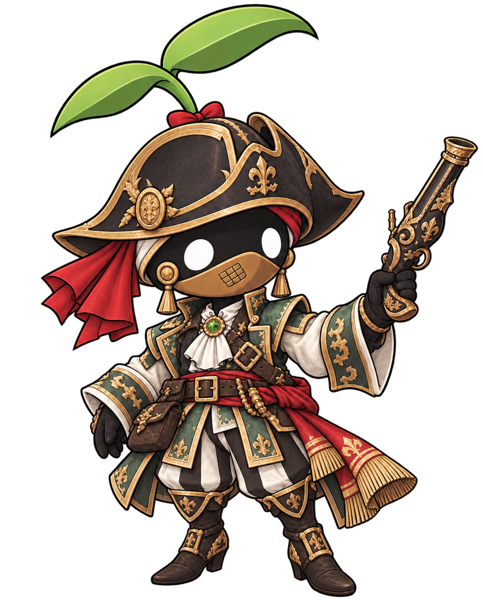
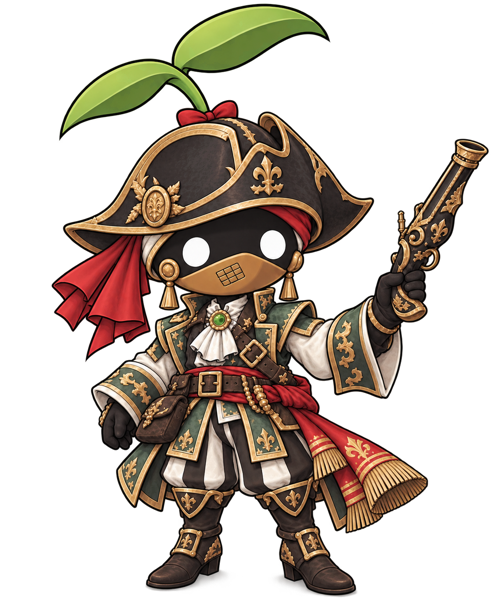
COR art v4

Changed region(s): [[0.0932, 0.0, 0.9938, 1.0]]

diff --git a/jobs.html b/jobs.html
@@ -1,4 +1,4 @@
 <!DOCTYPE html><html lang="en"><head><meta charset="utf-8"><meta name="viewport" content="width=device-width,initial-scale=1"><title>Jobs — EmberXI Wiki</title><link rel="stylesheet" href="style.css?v=1789575366"></head><body>
 <div id="side"><div id="logo"><a href="index.html"><div class="logo-title">EMBER XI<br>WIKI</div><div class="logo-sub">A Family Resource for Vana'diel</div></a></div><div class="portal"><h3>Main</h3><ul><li><a href="index.html">Main Page</a></li><li><a href="new-players.html">New Players</a></li><li><a href="rules.html">Server Rules</a></li><li><a href="xp-guide.html">EXP Guide</a></li><li><a href="jobs.html">Jobs</a></li><li><a href="trusts.html">Trusts</a></li><li><a href="avatars.html">Avatars</a></li><li><a href="eco-warrior.html">Eco-Warrior</a></li><li><a href="missions.html">Missions</a></li><li><a href="nms.html">NMs</a></li><li><a href="sky.html">Sky</a></li><li><a href="sea.html">Sea</a></li><li><a href="hnm.html">HNM</a></li></ul></div><div class="portal"><h3>EmberXI Content</h3><ul><li><a href="limit-break.html">Limit Break</a></li><li><a href="fountain.html">The Fountain</a></li><li><a href="ember-trials.html">Ember Trials</a></li><li><a href="ambuscade.html">Ambuscade</a></li><li><a href="nine-teeth.html">Nine Teeth</a></li><li><a href="domain-invasion.html">Domain Invasion</a></li><li><a href="forge.html">Brandt & Teodor</a></li><li><a href="alexandrite.html">Alexandrite</a></li><li><a href="shami.html">Shami & Orbs</a></li><li><a href="spark-store.html">Spark Store</a></li></ul></div><div class="portal"><h3>Coming Soon</h3><ul><li><span class="soon">CoP</span></li><li><span class="soon">ToAU</span></li><li><span class="soon">Quests</span></li></ul></div><div class="portal"><h3>Tools</h3><ul><li><a href="https://emberxi.wordpress.com">News Site</a></li></ul></div></div>
 <div id="main"><div id="top"><div class="tabs-l"><a class="on" href="#">Jobs</a><a href="#">Discussion</a></div><div class="tabs-r"><a class="on" href="#">Read</a><a href="#">History</a><form class="search" onsubmit="return false"><input placeholder="Search EmberXI Wiki"></form></div></div>
-<div id="content"><h1 class="firstHeading">Jobs</h1><div class="article"><p>Your <b>Main Job</b> is the job that gains experience. A <b>Support Job</b> (sub) is a second job at half your main level; it gives you its abilities, traits and spells up to that level.</p><p>The "Standard Jobs" below are available to every new character. The "Advanced Jobs" are unlocked by completing a quest after level 30.</p><h2>Standard Jobs</h2><p>There are six standard jobs available to all starting players.</p><div class="jobgrid2"><div class="jobrow"><a href="job-war.html" class="jobpic"><img src="img/job-war.png?v=1789588660" alt="Warrior"></a><div><h3 id="war"><a href="job-war.html">Warrior</a></h3><p>Masters of weapons. Warriors stand in front and protect the party. The easiest first job, and the best support job for melee.</p></div></div><div class="jobrow"><a href="job-mnk.html" class="jobpic"><img src="img/job-mnk.png?v=1789578534" alt="Monk"></a><div><h3 id="mnk"><a href="job-mnk.html">Monk</a></h3><p>Fighters who use their fists. Fast punches, high HP and the best Hand-to-Hand skill. Very good solo from level 1.</p></div></div><div class="jobrow"><a href="job-thf.html" class="jobpic"><img src="img/job-thf.png?v=1789578534" alt="Thief"></a><div><h3 id="thf"><a href="job-thf.html">Thief</a></h3><p>Sneak Attack, Trick Attack and Treasure Hunter for more drops. Works best with a Trust tank in front.</p></div></div><div class="jobrow"><a href="job-whm.html" class="jobpic"><img src="img/job-whm.png?v=1789578534" alt="White Mage"></a><div><h3 id="whm"><a href="job-whm.html">White Mage</a></h3><p>The main healer: Cure, Regen, Erase and Raise. With Trusts on EmberXI a White Mage can play solo too.</p></div></div><div class="jobrow"><a href="job-blm.html" class="jobpic"><img src="img/job-blm.png?v=1789578534" alt="Black Mage"></a><div><h3 id="blm"><a href="job-blm.html">Black Mage</a></h3><p>The highest magic damage in the game: elemental nukes, Sleep, Warp and Escape. Magic Burst is +35 on EmberXI.</p></div></div><div class="jobrow"><a href="job-rdm.html" class="jobpic"><img src="img/job-rdm.png?v=1789578534" alt="Red Mage"></a><div><h3 id="rdm"><a href="job-rdm.html">Red Mage</a></h3><p>A fighter-mage: sword plus white and black magic, Refresh, Haste and Dispel. The best solo job of the era.</p></div></div></div><h2>Advanced Jobs</h2><p>By completing certain quests after reaching level 30, the door to many other jobs opens.</p><div class="jobgrid2"><div class="jobrow"><a href="job-pld.html" class="jobpic"><img src="img/job-pld.png?v=1789578534" alt="Paladin"></a><div><h3 id="pld"><a href="job-pld.html">Paladin</a></h3><p>The knight with white magic: the best tank of the era. Cure, Provoke, Sentinel and Invincible.</p></div></div><div class="jobrow"><a href="job-drk.html" class="jobpic"><img src="img/job-drk.png?v=1789578534" alt="Dark Knight"></a><div><h3 id="drk"><a href="job-drk.html">Dark Knight</a></h3><p>High damage with Scythe and Great Sword, plus black magic, Absorb spells and Stun. Uses its own HP for power.</p></div></div><div class="jobrow"><a href="job-bst.html" class="jobpic"><img src="img/job-bst.png?v=1789587196" alt="Beastmaster"></a><div><h3 id="bst"><a href="job-bst.html">Beastmaster</a></h3><p>Charms monsters and fights beside them, or calls Jug Pets. The best solo job even without Trusts.</p></div></div><div class="jobrow"><a href="job-brd.html" class="jobpic"><img src="img/job-brd.png?v=1789578534" alt="Bard"></a><div><h3 id="brd"><a href="job-brd.html">Bard</a></h3><p>Songs that speed up the party, restore MP and put enemies to sleep. The backbone of every era party.</p></div></div><div class="jobrow"><a href="job-rng.html" class="jobpic"><img src="img/job-rng.png?v=1789578534" alt="Ranger"></a><div><h3 id="rng"><a href="job-rng.html">Ranger</a></h3><p>Ranged damage with Bow and Gun, Barrage and Sharpshot. Needs arrows or bullets from the Auction House.</p></div></div><div class="jobrow"><a href="job-sam.html" class="jobpic"><img src="img/job-sam.png?v=1789578534" alt="Samurai"></a><div><h3 id="sam"><a href="job-sam.html">Samurai</a></h3><p>Master of Weapon Skills: fast TP with Meditate and Hasso, and Third Eye to dodge. The king of skillchains.</p></div></div><div class="jobrow"><a href="job-nin.html" class="jobpic"><img src="img/job-nin.png?v=1789579722" alt="Ninja"></a><div><h3 id="nin"><a href="job-nin.html">Ninja</a></h3><p>Utsusemi shadows absorb hits; Ninjutsu gives elemental damage and debuffs. The best evasion tank of the era.</p></div></div><div class="jobrow"><a href="job-drg.html" class="jobpic"><img src="img/job-drg.png?v=1789578534" alt="Dragoon"></a><div><h3 id="drg"><a href="job-drg.html">Dragoon</a></h3><p>Lance and Wyvern. Jump, High Jump and Super Jump for damage and enmity control. The Wyvern heals and fights with you.</p></div></div><div class="jobrow"><a href="job-smn.html" class="jobpic"><img src="img/job-smn.png?v=1789589343" alt="Summoner"></a><div><h3 id="smn"><a href="job-smn.html">Summoner</a></h3><p>Makes pacts with Avatars: Carbuncle, then the six, then Fenrir. The avatar fights for you with Blood Pacts. Support, damage and healing.</p></div></div><div class="jobrow"><a href="job-blu.html" class="jobpic"><img src="img/job-blu.png?v=1789582174" alt="Blue Mage"></a><div><h3 id="blu"><a href="job-blu.html">Blue Mage</a></h3><p>Learns monster spells (Blue Magic) by killing monsters after they use the move. Sword plus a flexible spell set.</p></div></div><div class="jobrow"><a href="job-cor.html" class="jobpic"><img src="img/job-cor.png?v=1789588885" alt="Corsair"></a><div><h3 id="cor"><a href="job-cor.html">Corsair</a></h3><p>A pirate with a gun and Phantom Rolls: luck-based buffs for the party and Hexagun damage.</p></div></div><div class="jobrow"><a href="job-pup.html" class="jobpic"><img src="img/job-pup.png?v=1789581899" alt="Puppetmaster"></a><div><h3 id="pup"><a href="job-pup.html">Puppetmaster</a></h3><p>Controls an Automaton that can be a tank, healer or mage depending on its Attachments.</p></div></div><div class="jobrow"><a href="job-dnc.html" class="jobpic"><img src="img/job-dnc.png?v=1789586774" alt="Dancer"></a><div><h3 id="dnc"><a href="job-dnc.html">Dancer</a></h3><p>Fights with daggers and turns TP into cures, buffs and debuffs with Waltzes, Sambas and Steps. Heals itself, so it is very good solo.</p></div></div><div class="jobrow"><a href="job-sch.html" class="jobpic"><img src="img/job-sch.png?v=1789578534" alt="Scholar"></a><div><h3 id="sch"><a href="job-sch.html">Scholar</a></h3><p>A flexible mage with two stances: Light Arts (white magic) and Dark Arts (black magic), plus Stratagems for faster or cheaper spells.</p></div></div></div><h2>Jobs of Vana'diel by Era</h2><table class="wikitable" dir="ltr"><tr><th>Expansion</th><th></th><th>Jobs</th></tr><tr><td dir="auto">Final Fantasy XI (2002–2004)</td><td dir="auto">Standard Jobs</td><td dir="auto"><a href="job-war.html">Warrior</a> · <a href="job-mnk.html">Monk</a> · <a href="job-thf.html">Thief</a> · <a href="job-whm.html">White Mage</a> · <a href="job-blm.html">Black Mage</a> · <a href="job-rdm.html">Red Mage</a></td></tr><tr><td dir="auto"></td><td dir="auto">Advanced Jobs</td><td dir="auto"><a href="job-pld.html">Paladin</a> · <a href="job-drk.html">Dark Knight</a> · <a href="job-bst.html">Beastmaster</a> · <a href="job-brd.html">Bard</a> · <a href="job-rng.html">Ranger</a></td></tr><tr><td dir="auto">Rise of the Zilart (2003–2004)</td><td dir="auto"></td><td dir="auto"><a href="job-smn.html">Summoner</a> · <a href="job-sam.html">Samurai</a> · <a href="job-nin.html">Ninja</a> · <a href="job-drg.html">Dragoon</a></td></tr><tr><td dir="auto">Chains of Promathia (2004)</td><td dir="auto"></td><td dir="auto">None</td></tr><tr><td dir="auto">Treasures of Aht Urhgan (2006)</td><td dir="auto"></td><td dir="auto"><a href="job-blu.html">Blue Mage</a> · <a href="job-cor.html">Corsair</a> · <a href="job-pup.html">Puppetmaster</a></td></tr><tr><td dir="auto">Wings of the Goddess (2007)</td><td dir="auto"></td><td dir="auto"><a href="job-dnc.html">Dancer</a> · <a href="job-sch.html">Scholar</a></td></tr></table></div><div id="foot">Last edited: 8 September 2026 · EmberXI Wiki</div></div></div></body></html>
+<div id="content"><h1 class="firstHeading">Jobs</h1><div class="article"><p>Your <b>Main Job</b> is the job that gains experience. A <b>Support Job</b> (sub) is a second job at half your main level; it gives you its abilities, traits and spells up to that level.</p><p>The "Standard Jobs" below are available to every new character. The "Advanced Jobs" are unlocked by completing a quest after level 30.</p><h2>Standard Jobs</h2><p>There are six standard jobs available to all starting players.</p><div class="jobgrid2"><div class="jobrow"><a href="job-war.html" class="jobpic"><img src="img/job-war.png?v=1789588660" alt="Warrior"></a><div><h3 id="war"><a href="job-war.html">Warrior</a></h3><p>Masters of weapons. Warriors stand in front and protect the party. The easiest first job, and the best support job for melee.</p></div></div><div class="jobrow"><a href="job-mnk.html" class="jobpic"><img src="img/job-mnk.png?v=1789578534" alt="Monk"></a><div><h3 id="mnk"><a href="job-mnk.html">Monk</a></h3><p>Fighters who use their fists. Fast punches, high HP and the best Hand-to-Hand skill. Very good solo from level 1.</p></div></div><div class="jobrow"><a href="job-thf.html" class="jobpic"><img src="img/job-thf.png?v=1789578534" alt="Thief"></a><div><h3 id="thf"><a href="job-thf.html">Thief</a></h3><p>Sneak Attack, Trick Attack and Treasure Hunter for more drops. Works best with a Trust tank in front.</p></div></div><div class="jobrow"><a href="job-whm.html" class="jobpic"><img src="img/job-whm.png?v=1789578534" alt="White Mage"></a><div><h3 id="whm"><a href="job-whm.html">White Mage</a></h3><p>The main healer: Cure, Regen, Erase and Raise. With Trusts on EmberXI a White Mage can play solo too.</p></div></div><div class="jobrow"><a href="job-blm.html" class="jobpic"><img src="img/job-blm.png?v=1789578534" alt="Black Mage"></a><div><h3 id="blm"><a href="job-blm.html">Black Mage</a></h3><p>The highest magic damage in the game: elemental nukes, Sleep, Warp and Escape. Magic Burst is +35 on EmberXI.</p></div></div><div class="jobrow"><a href="job-rdm.html" class="jobpic"><img src="img/job-rdm.png?v=1789578534" alt="Red Mage"></a><div><h3 id="rdm"><a href="job-rdm.html">Red Mage</a></h3><p>A fighter-mage: sword plus white and black magic, Refresh, Haste and Dispel. The best solo job of the era.</p></div></div></div><h2>Advanced Jobs</h2><p>By completing certain quests after reaching level 30, the door to many other jobs opens.</p><div class="jobgrid2"><div class="jobrow"><a href="job-pld.html" class="jobpic"><img src="img/job-pld.png?v=1789578534" alt="Paladin"></a><div><h3 id="pld"><a href="job-pld.html">Paladin</a></h3><p>The knight with white magic: the best tank of the era. Cure, Provoke, Sentinel and Invincible.</p></div></div><div class="jobrow"><a href="job-drk.html" class="jobpic"><img src="img/job-drk.png?v=1789578534" alt="Dark Knight"></a><div><h3 id="drk"><a href="job-drk.html">Dark Knight</a></h3><p>High damage with Scythe and Great Sword, plus black magic, Absorb spells and Stun. Uses its own HP for power.</p></div></div><div class="jobrow"><a href="job-bst.html" class="jobpic"><img src="img/job-bst.png?v=1789587196" alt="Beastmaster"></a><div><h3 id="bst"><a href="job-bst.html">Beastmaster</a></h3><p>Charms monsters and fights beside them, or calls Jug Pets. The best solo job even without Trusts.</p></div></div><div class="jobrow"><a href="job-brd.html" class="jobpic"><img src="img/job-brd.png?v=1789578534" alt="Bard"></a><div><h3 id="brd"><a href="job-brd.html">Bard</a></h3><p>Songs that speed up the party, restore MP and put enemies to sleep. The backbone of every era party.</p></div></div><div class="jobrow"><a href="job-rng.html" class="jobpic"><img src="img/job-rng.png?v=1789578534" alt="Ranger"></a><div><h3 id="rng"><a href="job-rng.html">Ranger</a></h3><p>Ranged damage with Bow and Gun, Barrage and Sharpshot. Needs arrows or bullets from the Auction House.</p></div></div><div class="jobrow"><a href="job-sam.html" class="jobpic"><img src="img/job-sam.png?v=1789578534" alt="Samurai"></a><div><h3 id="sam"><a href="job-sam.html">Samurai</a></h3><p>Master of Weapon Skills: fast TP with Meditate and Hasso, and Third Eye to dodge. The king of skillchains.</p></div></div><div class="jobrow"><a href="job-nin.html" class="jobpic"><img src="img/job-nin.png?v=1789579722" alt="Ninja"></a><div><h3 id="nin"><a href="job-nin.html">Ninja</a></h3><p>Utsusemi shadows absorb hits; Ninjutsu gives elemental damage and debuffs. The best evasion tank of the era.</p></div></div><div class="jobrow"><a href="job-drg.html" class="jobpic"><img src="img/job-drg.png?v=1789578534" alt="Dragoon"></a><div><h3 id="drg"><a href="job-drg.html">Dragoon</a></h3><p>Lance and Wyvern. Jump, High Jump and Super Jump for damage and enmity control. The Wyvern heals and fights with you.</p></div></div><div class="jobrow"><a href="job-smn.html" class="jobpic"><img src="img/job-smn.png?v=1789589343" alt="Summoner"></a><div><h3 id="smn"><a href="job-smn.html">Summoner</a></h3><p>Makes pacts with Avatars: Carbuncle, then the six, then Fenrir. The avatar fights for you with Blood Pacts. Support, damage and healing.</p></div></div><div class="jobrow"><a href="job-blu.html" class="jobpic"><img src="img/job-blu.png?v=1789582174" alt="Blue Mage"></a><div><h3 id="blu"><a href="job-blu.html">Blue Mage</a></h3><p>Learns monster spells (Blue Magic) by killing monsters after they use the move. Sword plus a flexible spell set.</p></div></div><div class="jobrow"><a href="job-cor.html" class="jobpic"><img src="img/job-cor.png?v=1789589530" alt="Corsair"></a><div><h3 id="cor"><a href="job-cor.html">Corsair</a></h3><p>A pirate with a gun and Phantom Rolls: luck-based buffs for the party and Hexagun damage.</p></div></div><div class="jobrow"><a href="job-pup.html" class="jobpic"><img src="img/job-pup.png?v=1789581899" alt="Puppetmaster"></a><div><h3 id="pup"><a href="job-pup.html">Puppetmaster</a></h3><p>Controls an Automaton that can be a tank, healer or mage depending on its Attachments.</p></div></div><div class="jobrow"><a href="job-dnc.html" class="jobpic"><img src="img/job-dnc.png?v=1789586774" alt="Dancer"></a><div><h3 id="dnc"><a href="job-dnc.html">Dancer</a></h3><p>Fights with daggers and turns TP into cures, buffs and debuffs with Waltzes, Sambas and Steps. Heals itself, so it is very good solo.</p></div></div><div class="jobrow"><a href="job-sch.html" class="jobpic"><img src="img/job-sch.png?v=1789578534" alt="Scholar"></a><div><h3 id="sch"><a href="job-sch.html">Scholar</a></h3><p>A flexible mage with two stances: Light Arts (white magic) and Dark Arts (black magic), plus Stratagems for faster or cheaper spells.</p></div></div></div><h2>Jobs of Vana'diel by Era</h2><table class="wikitable" dir="ltr"><tr><th>Expansion</th><th></th><th>Jobs</th></tr><tr><td dir="auto">Final Fantasy XI (2002–2004)</td><td dir="auto">Standard Jobs</td><td dir="auto"><a href="job-war.html">Warrior</a> · <a href="job-mnk.html">Monk</a> · <a href="job-thf.html">Thief</a> · <a href="job-whm.html">White Mage</a> · <a href="job-blm.html">Black Mage</a> · <a href="job-rdm.html">Red Mage</a></td></tr><tr><td dir="auto"></td><td dir="auto">Advanced Jobs</td><td dir="auto"><a href="job-pld.html">Paladin</a> · <a href="job-drk.html">Dark Knight</a> · <a href="job-bst.html">Beastmaster</a> · <a href="job-brd.html">Bard</a> · <a href="job-rng.html">Ranger</a></td></tr><tr><td dir="auto">Rise of the Zilart (2003–2004)</td><td dir="auto"></td><td dir="auto"><a href="job-smn.html">Summoner</a> · <a href="job-sam.html">Samurai</a> · <a href="job-nin.html">Ninja</a> · <a href="job-drg.html">Dragoon</a></td></tr><tr><td dir="auto">Chains of Promathia (2004)</td><td dir="auto"></td><td dir="auto">None</td></tr><tr><td dir="auto">Treasures of Aht Urhgan (2006)</td><td dir="auto"></td><td dir="auto"><a href="job-blu.html">Blue Mage</a> · <a href="job-cor.html">Corsair</a> · <a href="job-pup.html">Puppetmaster</a></td></tr><tr><td dir="auto">Wings of the Goddess (2007)</td><td dir="auto"></td><td dir="auto"><a href="job-dnc.html">Dancer</a> · <a href="job-sch.html">Scholar</a></td></tr></table></div><div id="foot">Last edited: 8 September 2026 · EmberXI Wiki</div></div></div></body></html>

diff --git a/job-cor.html b/job-cor.html
@@ -1,4 +1,4 @@
 <!DOCTYPE html><html lang="en"><head><meta charset="utf-8"><meta name="viewport" content="width=device-width,initial-scale=1"><title>Corsair — EmberXI Wiki</title><link rel="stylesheet" href="style.css?v=1789575366"></head><body>
 <div id="side"><div id="logo"><a href="index.html"><div class="logo-title">EMBER XI<br>WIKI</div><div class="logo-sub">A Family Resource for Vana'diel</div></a></div><div class="portal"><h3>Main</h3><ul><li><a href="index.html">Main Page</a></li><li><a href="new-players.html">New Players</a></li><li><a href="rules.html">Server Rules</a></li><li><a href="xp-guide.html">EXP Guide</a></li><li><a href="jobs.html">Jobs</a></li><li><a href="trusts.html">Trusts</a></li><li><a href="avatars.html">Avatars</a></li><li><a href="eco-warrior.html">Eco-Warrior</a></li><li><a href="missions.html">Missions</a></li><li><a href="nms.html">NMs</a></li><li><a href="sky.html">Sky</a></li><li><a href="sea.html">Sea</a></li><li><a href="hnm.html">HNM</a></li></ul></div><div class="portal"><h3>EmberXI Content</h3><ul><li><a href="limit-break.html">Limit Break</a></li><li><a href="fountain.html">The Fountain</a></li><li><a href="ember-trials.html">Ember Trials</a></li><li><a href="ambuscade.html">Ambuscade</a></li><li><a href="nine-teeth.html">Nine Teeth</a></li><li><a href="domain-invasion.html">Domain Invasion</a></li><li><a href="forge.html">Brandt & Teodor</a></li><li><a href="alexandrite.html">Alexandrite</a></li><li><a href="shami.html">Shami & Orbs</a></li><li><a href="spark-store.html">Spark Store</a></li></ul></div><div class="portal"><h3>Coming Soon</h3><ul><li><span class="soon">CoP</span></li><li><span class="soon">ToAU</span></li><li><span class="soon">Quests</span></li></ul></div><div class="portal"><h3>Tools</h3><ul><li><a href="https://emberxi.wordpress.com">News Site</a></li></ul></div></div>
 <div id="main"><div id="top"><div class="tabs-l"><a class="on" href="#">Corsair</a><a href="#">Discussion</a></div><div class="tabs-r"><a class="on" href="#">Read</a><a href="#">History</a><form class="search" onsubmit="return false"><input placeholder="Search EmberXI Wiki"></form></div></div>
-<div id="content"><h1 class="firstHeading">Corsair</h1><div class="article"><div class="lead"><table class="infobox"><tr><th colspan="2" class="ib-title">Corsair</th></tr><tr><td class="ib-label">Abbreviation</td><td>COR</td></tr><tr><td class="ib-label">Expansion</td><td>Treasures of Aht Urhgan</td></tr><tr><td class="ib-label">How to Unlock</td><td>Luck of the Draw</td></tr><tr><td class="ib-label">Page Contents</td><td><a href="#ab">Abilities</a> · <a href="#tr">Traits</a> · <a href="#sk">Skills</a></td></tr></table><div><img class="jobart" src="img/job-cor.png?v=1789588885" alt="Corsair"><p>A pirate with a gun and Phantom Rolls: luck-based buffs for the party and Hexagun damage.</p></div></div><h2 id="ab">Job Abilities</h2><table class="wikitable" dir="ltr"><tr><th>Level</th><th>Name</th></tr><tr><td dir="auto">1</td><td dir="auto">Wild Card</td></tr><tr><td dir="auto">5</td><td dir="auto">Corsairs Roll</td></tr><tr><td dir="auto">5</td><td dir="auto">Double-Up</td></tr><tr><td dir="auto">5</td><td dir="auto">Phantom Roll</td></tr><tr><td dir="auto">8</td><td dir="auto">Ninja Roll</td></tr><tr><td dir="auto">11</td><td dir="auto">Hunters Roll</td></tr><tr><td dir="auto">14</td><td dir="auto">Chaos Roll</td></tr><tr><td dir="auto">17</td><td dir="auto">Maguss Roll</td></tr><tr><td dir="auto">20</td><td dir="auto">Healers Roll</td></tr><tr><td dir="auto">23</td><td dir="auto">Drachen Roll</td></tr><tr><td dir="auto">26</td><td dir="auto">Choral Roll</td></tr><tr><td dir="auto">31</td><td dir="auto">Monks Roll</td></tr><tr><td dir="auto">34</td><td dir="auto">Beast Roll</td></tr><tr><td dir="auto">34</td><td dir="auto">Samurai Roll</td></tr><tr><td dir="auto">40</td><td dir="auto">Dark Shot</td></tr><tr><td dir="auto">40</td><td dir="auto">Earth Shot</td></tr><tr><td dir="auto">40</td><td dir="auto">Evokers Roll</td></tr><tr><td dir="auto">40</td><td dir="auto">Fire Shot</td></tr><tr><td dir="auto">40</td><td dir="auto">Ice Shot</td></tr><tr><td dir="auto">40</td><td dir="auto">Light Shot</td></tr><tr><td dir="auto">40</td><td dir="auto">Quick Draw</td></tr><tr><td dir="auto">40</td><td dir="auto">Thunder Shot</td></tr><tr><td dir="auto">40</td><td dir="auto">Water Shot</td></tr><tr><td dir="auto">40</td><td dir="auto">Wind Shot</td></tr><tr><td dir="auto">43</td><td dir="auto">Rogues Roll</td></tr><tr><td dir="auto">46</td><td dir="auto">Warlocks Roll</td></tr><tr><td dir="auto">49</td><td dir="auto">Fighters Roll</td></tr><tr><td dir="auto">50</td><td dir="auto">Random Deal</td></tr><tr><td dir="auto">52</td><td dir="auto">Puppet Roll</td></tr><tr><td dir="auto">55</td><td dir="auto">Gallants Roll</td></tr><tr><td dir="auto">58</td><td dir="auto">Wizards Roll</td></tr><tr><td dir="auto">61</td><td dir="auto">Dancers Roll</td></tr><tr><td dir="auto">64</td><td dir="auto">Scholars Roll</td></tr><tr><td dir="auto">67</td><td dir="auto">Naturalists Roll</td></tr><tr><td dir="auto">70</td><td dir="auto">Runeists Roll</td></tr><tr><td dir="auto">75</td><td dir="auto">Fold</td></tr><tr><td dir="auto">75</td><td dir="auto">Snake Eye</td></tr></table><h2 id="tr">Job Traits</h2><table class="wikitable" dir="ltr"><tr><th>Level</th><th>Trait</th></tr><tr><td dir="auto">5</td><td dir="auto">Resist Paralyze</td></tr><tr><td dir="auto">15</td><td dir="auto">Rapid Shot</td></tr><tr><td dir="auto">25</td><td dir="auto">Resist Paralyze II</td></tr><tr><td dir="auto">30</td><td dir="auto">Resist Amnesia</td></tr><tr><td dir="auto">35</td><td dir="auto">Recycle</td></tr><tr><td dir="auto">45</td><td dir="auto">Resist Paralyze III</td></tr><tr><td dir="auto">50</td><td dir="auto">Resist Amnesia II</td></tr><tr><td dir="auto">65</td><td dir="auto">Recycle II</td></tr><tr><td dir="auto">65</td><td dir="auto">Resist Paralyze IV</td></tr><tr><td dir="auto">70</td><td dir="auto">Resist Amnesia III</td></tr><tr><td dir="auto">75</td><td dir="auto">Loaded Deck</td></tr><tr><td dir="auto">75</td><td dir="auto">Winning Streak</td></tr></table><h2 id="sk">Skills</h2><table class="wikitable" dir="ltr"><tr><th>Skill</th><th>Rank</th><th>Lv 37</th><th>Lv 75</th></tr><tr><td dir="auto">Dagger</td><td dir="auto">B+</td><td dir="auto">109</td><td dir="auto">256</td></tr><tr><td dir="auto">Sword</td><td dir="auto">B-</td><td dir="auto">109</td><td dir="auto">240</td></tr><tr><td dir="auto">Marksmanship</td><td dir="auto">B</td><td dir="auto">109</td><td dir="auto">250</td></tr><tr><td dir="auto">Throwing</td><td dir="auto">C+</td><td dir="auto">105</td><td dir="auto">230</td></tr><tr><td dir="auto">Evasion</td><td dir="auto">D</td><td dir="auto">101</td><td dir="auto">210</td></tr><tr><td dir="auto">parrying</td><td dir="auto">A-</td><td dir="auto">114</td><td dir="auto">269</td></tr></table><h2>Artifact Armor</h2><p class="soon">Coming soon.</p></div><div id="foot">Last edited: 8 September 2026 · EmberXI Wiki</div></div></div></body></html>
+<div id="content"><h1 class="firstHeading">Corsair</h1><div class="article"><div class="lead"><table class="infobox"><tr><th colspan="2" class="ib-title">Corsair</th></tr><tr><td class="ib-label">Abbreviation</td><td>COR</td></tr><tr><td class="ib-label">Expansion</td><td>Treasures of Aht Urhgan</td></tr><tr><td class="ib-label">How to Unlock</td><td>Luck of the Draw</td></tr><tr><td class="ib-label">Page Contents</td><td><a href="#ab">Abilities</a> · <a href="#tr">Traits</a> · <a href="#sk">Skills</a></td></tr></table><div><img class="jobart" src="img/job-cor.png?v=1789589530" alt="Corsair"><p>A pirate with a gun and Phantom Rolls: luck-based buffs for the party and Hexagun damage.</p></div></div><h2 id="ab">Job Abilities</h2><table class="wikitable" dir="ltr"><tr><th>Level</th><th>Name</th></tr><tr><td dir="auto">1</td><td dir="auto">Wild Card</td></tr><tr><td dir="auto">5</td><td dir="auto">Corsairs Roll</td></tr><tr><td dir="auto">5</td><td dir="auto">Double-Up</td></tr><tr><td dir="auto">5</td><td dir="auto">Phantom Roll</td></tr><tr><td dir="auto">8</td><td dir="auto">Ninja Roll</td></tr><tr><td dir="auto">11</td><td dir="auto">Hunters Roll</td></tr><tr><td dir="auto">14</td><td dir="auto">Chaos Roll</td></tr><tr><td dir="auto">17</td><td dir="auto">Maguss Roll</td></tr><tr><td dir="auto">20</td><td dir="auto">Healers Roll</td></tr><tr><td dir="auto">23</td><td dir="auto">Drachen Roll</td></tr><tr><td dir="auto">26</td><td dir="auto">Choral Roll</td></tr><tr><td dir="auto">31</td><td dir="auto">Monks Roll</td></tr><tr><td dir="auto">34</td><td dir="auto">Beast Roll</td></tr><tr><td dir="auto">34</td><td dir="auto">Samurai Roll</td></tr><tr><td dir="auto">40</td><td dir="auto">Dark Shot</td></tr><tr><td dir="auto">40</td><td dir="auto">Earth Shot</td></tr><tr><td dir="auto">40</td><td dir="auto">Evokers Roll</td></tr><tr><td dir="auto">40</td><td dir="auto">Fire Shot</td></tr><tr><td dir="auto">40</td><td dir="auto">Ice Shot</td></tr><tr><td dir="auto">40</td><td dir="auto">Light Shot</td></tr><tr><td dir="auto">40</td><td dir="auto">Quick Draw</td></tr><tr><td dir="auto">40</td><td dir="auto">Thunder Shot</td></tr><tr><td dir="auto">40</td><td dir="auto">Water Shot</td></tr><tr><td dir="auto">40</td><td dir="auto">Wind Shot</td></tr><tr><td dir="auto">43</td><td dir="auto">Rogues Roll</td></tr><tr><td dir="auto">46</td><td dir="auto">Warlocks Roll</td></tr><tr><td dir="auto">49</td><td dir="auto">Fighters Roll</td></tr><tr><td dir="auto">50</td><td dir="auto">Random Deal</td></tr><tr><td dir="auto">52</td><td dir="auto">Puppet Roll</td></tr><tr><td dir="auto">55</td><td dir="auto">Gallants Roll</td></tr><tr><td dir="auto">58</td><td dir="auto">Wizards Roll</td></tr><tr><td dir="auto">61</td><td dir="auto">Dancers Roll</td></tr><tr><td dir="auto">64</td><td dir="auto">Scholars Roll</td></tr><tr><td dir="auto">67</td><td dir="auto">Naturalists Roll</td></tr><tr><td dir="auto">70</td><td dir="auto">Runeists Roll</td></tr><tr><td dir="auto">75</td><td dir="auto">Fold</td></tr><tr><td dir="auto">75</td><td dir="auto">Snake Eye</td></tr></table><h2 id="tr">Job Traits</h2><table class="wikitable" dir="ltr"><tr><th>Level</th><th>Trait</th></tr><tr><td dir="auto">5</td><td dir="auto">Resist Paralyze</td></tr><tr><td dir="auto">15</td><td dir="auto">Rapid Shot</td></tr><tr><td dir="auto">25</td><td dir="auto">Resist Paralyze II</td></tr><tr><td dir="auto">30</td><td dir="auto">Resist Amnesia</td></tr><tr><td dir="auto">35</td><td dir="auto">Recycle</td></tr><tr><td dir="auto">45</td><td dir="auto">Resist Paralyze III</td></tr><tr><td dir="auto">50</td><td dir="auto">Resist Amnesia II</td></tr><tr><td dir="auto">65</td><td dir="auto">Recycle II</td></tr><tr><td dir="auto">65</td><td dir="auto">Resist Paralyze IV</td></tr><tr><td dir="auto">70</td><td dir="auto">Resist Amnesia III</td></tr><tr><td dir="auto">75</td><td dir="auto">Loaded Deck</td></tr><tr><td dir="auto">75</td><td dir="auto">Winning Streak</td></tr></table><h2 id="sk">Skills</h2><table class="wikitable" dir="ltr"><tr><th>Skill</th><th>Rank</th><th>Lv 37</th><th>Lv 75</th></tr><tr><td dir="auto">Dagger</td><td dir="auto">B+</td><td dir="auto">109</td><td dir="auto">256</td></tr><tr><td dir="auto">Sword</td><td dir="auto">B-</td><td dir="auto">109</td><td dir="auto">240</td></tr><tr><td dir="auto">Marksmanship</td><td dir="auto">B</td><td dir="auto">109</td><td dir="auto">250</td></tr><tr><td dir="auto">Throwing</td><td dir="auto">C+</td><td dir="auto">105</td><td dir="auto">230</td></tr><tr><td dir="auto">Evasion</td><td dir="auto">D</td><td dir="auto">101</td><td dir="auto">210</td></tr><tr><td dir="auto">parrying</td><td dir="auto">A-</td><td dir="auto">114</td><td dir="auto">269</td></tr></table><h2>Artifact Armor</h2><p class="soon">Coming soon.</p></div><div id="foot">Last edited: 8 September 2026 · EmberXI Wiki</div></div></div></body></html>
